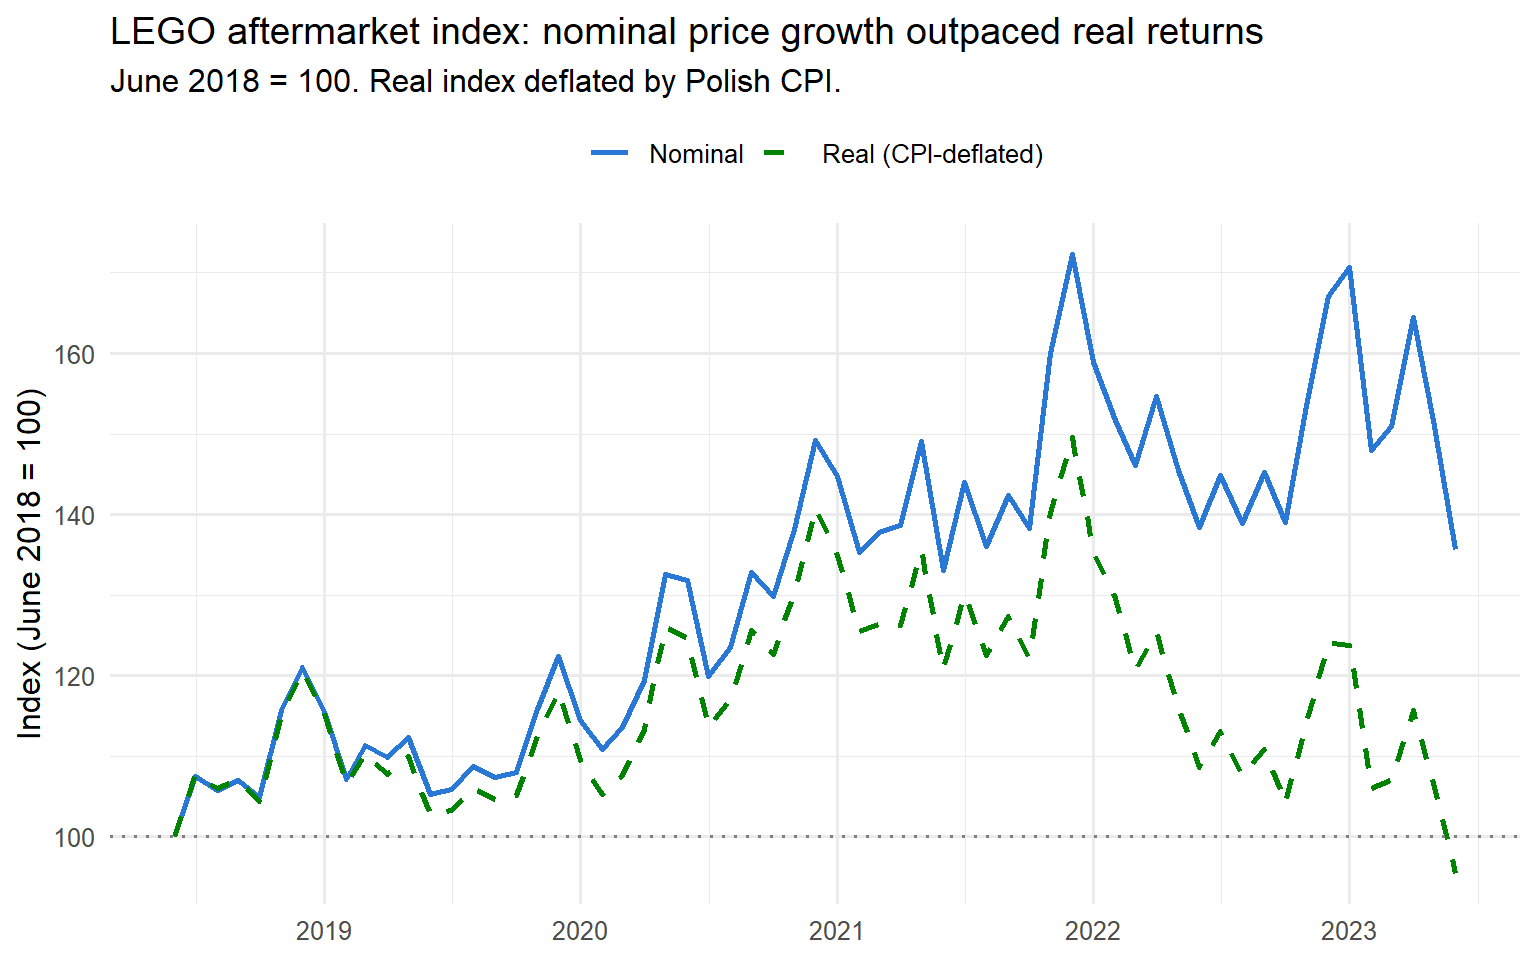
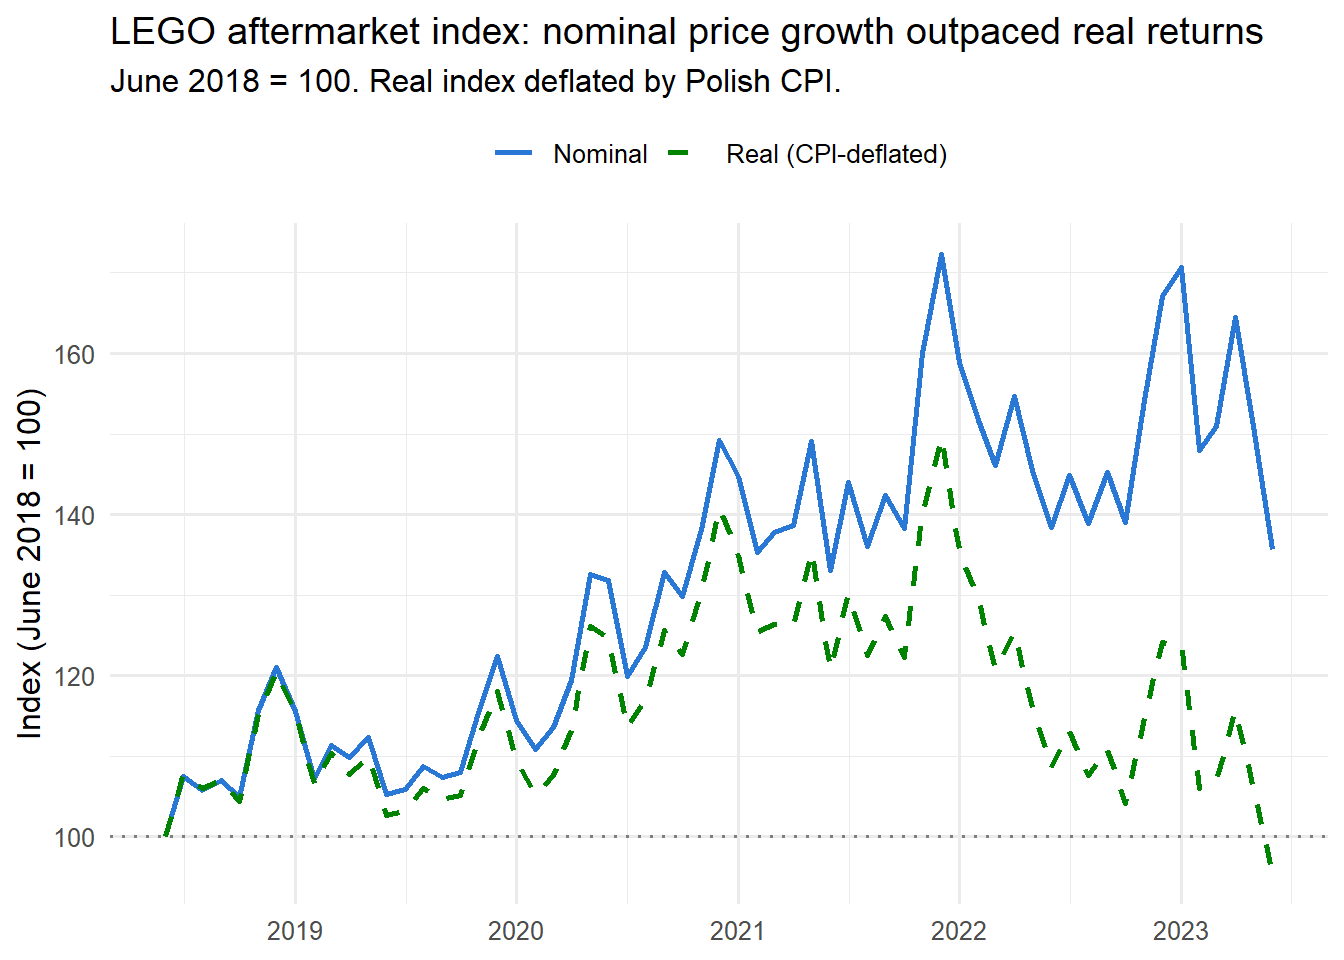
Add minimum-risk diversified portfolio to report and README

diff --git a/report.html b/report.html
@@ -7,7 +7,7 @@
 <meta name="viewport" content="width=device-width, initial-scale=1.0, user-scalable=yes">
 
 <meta name="author" content="Jeffrey Lee">
-<meta name="dcterms.date" content="2026-07-19">
+<meta name="dcterms.date" content="2026-07-20">
 
 <title>Building an Optimal LEGO Portfolio Under a Budget Constraint</title>
 <style>
@@ -24,6 +24,41 @@ ul.task-list li input[type="checkbox"] {
   width: 0.8em;
   margin: 0 0.8em 0.2em -1em; /* quarto-specific, see https://github.com/quarto-dev/quarto-cli/issues/4556 */ 
   vertical-align: middle;
+}
+/* CSS for syntax highlighting */
+html { -webkit-text-size-adjust: 100%; }
+pre > code.sourceCode { white-space: pre; position: relative; }
+pre > code.sourceCode > span { display: inline-block; line-height: 1.25; }
+pre > code.sourceCode > span:empty { height: 1.2em; }
+.sourceCode { overflow: visible; }
+code.sourceCode > span { color: inherit; text-decoration: inherit; }
+div.sourceCode { margin: 1em 0; }
+pre.sourceCode { margin: 0; }
+@media screen {
+div.sourceCode { overflow: auto; }
+}
+@media print {
+pre > code.sourceCode { white-space: pre-wrap; }
+pre > code.sourceCode > span { text-indent: -5em; padding-left: 5em; }
+}
+pre.numberSource code
+  { counter-reset: source-line 0; }
+pre.numberSource code > span
+  { position: relative; left: -4em; counter-increment: source-line; }
+pre.numberSource code > span > a:first-child::before
+  { content: counter(source-line);
+    position: relative; left: -1em; text-align: right; vertical-align: baseline;
+    border: none; display: inline-block;
+    -webkit-touch-callout: none; -webkit-user-select: none;
+    -khtml-user-select: none; -moz-user-select: none;
+    -ms-user-select: none; user-select: none;
+    padding: 0 4px; width: 4em;
+  }
+pre.numberSource { margin-left: 3em;  padding-left: 4px; }
+div.sourceCode
+  {   }
+@media screen {
+pre > code.sourceCode > span > a:first-child::before { text-decoration: underline; }
 }
 </style>
 
@@ -56,10 +91,12 @@ ul.task-list li input[type="checkbox"] {
   <li><a href="#the-price-index-nominal-vs.-real" id="toc-the-price-index-nominal-vs.-real" class="nav-link" data-scroll-target="#the-price-index-nominal-vs.-real">The price index: nominal vs.&nbsp;real</a></li>
   <li><a href="#do-lego-theme-groups-diversify-each-other" id="toc-do-lego-theme-groups-diversify-each-other" class="nav-link" data-scroll-target="#do-lego-theme-groups-diversify-each-other">Do LEGO theme groups diversify each other?</a></li>
   <li><a href="#risk-and-return-by-theme" id="toc-risk-and-return-by-theme" class="nav-link" data-scroll-target="#risk-and-return-by-theme">Risk and return by theme</a></li>
-  <li><a href="#the-efficient-frontier-what-indivisibility-costs-you" id="toc-the-efficient-frontier-what-indivisibility-costs-you" class="nav-link" data-scroll-target="#the-efficient-frontier-what-indivisibility-costs-you">The efficient frontier: what indivisibility costs you</a></li>
+  <li><a href="#the-efficient-frontier-what-indivisibility-costs-you" id="toc-the-efficient-frontier-what-indivisibility-costs-you" class="nav-link" data-scroll-target="#the-efficient-frontier-what-indivisibility-costs-you">The efficient frontier: what indivisibility costs you</a>
+  <ul class="collapse">
+  <li><a href="#the-minimum-risk-diversified-portfolio" id="toc-the-minimum-risk-diversified-portfolio" class="nav-link" data-scroll-target="#the-minimum-risk-diversified-portfolio">The minimum-risk diversified portfolio</a></li>
+  </ul></li>
   <li><a href="#recommended-portfolios-by-budget" id="toc-recommended-portfolios-by-budget" class="nav-link" data-scroll-target="#recommended-portfolios-by-budget">Recommended portfolios by budget</a></li>
   <li><a href="#honest-limitations" id="toc-honest-limitations" class="nav-link" data-scroll-target="#honest-limitations">Honest limitations</a></li>
-  <li><a href="#data-and-code" id="toc-data-and-code" class="nav-link" data-scroll-target="#data-and-code">Data and code</a></li>
   </ul>
 </nav>
 </div>
@@ -85,7 +122,7 @@ ul.task-list li input[type="checkbox"] {
     <div>
     <div class="quarto-title-meta-heading">Published</div>
     <div class="quarto-title-meta-contents">
-      <p class="date">July 19, 2026</p>
+      <p class="date">July 20, 2026</p>
     </div>
   </div>
   
@@ -97,6 +134,58 @@ ul.task-list li input[type="checkbox"] {
 </header>
 
 
+<div class="cell">
+<details class="code-fold">
+<summary>Code</summary>
+<div class="code-copy-outer-scaffold"><div class="sourceCode cell-code" id="cb1"><pre class="sourceCode r code-with-copy"><code class="sourceCode r"><span id="cb1-1"><a href="#cb1-1" aria-hidden="true" tabindex="-1"></a><span class="fu">library</span>(tidyverse)</span></code></pre></div><button title="Copy to Clipboard" class="code-copy-button"><i class="bi"></i></button></div>
+</details>
+<div class="cell-output cell-output-stderr">
+<pre><code>── Attaching core tidyverse packages ──────────────────────── tidyverse 2.0.0 ──
+✔ dplyr     1.2.1     ✔ readr     2.2.0
+✔ forcats   1.0.1     ✔ stringr   1.6.0
+✔ ggplot2   4.0.3     ✔ tibble    3.3.1
+✔ lubridate 1.9.5     ✔ tidyr     1.3.2
+✔ purrr     1.2.2     
+── Conflicts ────────────────────────────────────────── tidyverse_conflicts() ──
+✖ dplyr::filter() masks stats::filter()
+✖ dplyr::lag()    masks stats::lag()
+ℹ Use the conflicted package (&lt;http://conflicted.r-lib.org/&gt;) to force all conflicts to become errors</code></pre>
+</div>
+<details class="code-fold">
+<summary>Code</summary>
+<div class="code-copy-outer-scaffold"><div class="sourceCode cell-code" id="cb3"><pre class="sourceCode r code-with-copy"><code class="sourceCode r"><span id="cb3-1"><a href="#cb3-1" aria-hidden="true" tabindex="-1"></a><span class="fu">library</span>(scales)</span></code></pre></div><button title="Copy to Clipboard" class="code-copy-button"><i class="bi"></i></button></div>
+</details>
+<div class="cell-output cell-output-stderr">
+<pre><code>
+Attaching package: 'scales'
+
+The following object is masked from 'package:purrr':
+
+    discard
+
+The following object is masked from 'package:readr':
+
+    col_factor</code></pre>
+</div>
+<details class="code-fold">
+<summary>Code</summary>
+<div class="code-copy-outer-scaffold"><div class="sourceCode cell-code" id="cb5"><pre class="sourceCode r code-with-copy"><code class="sourceCode r"><span id="cb5-1"><a href="#cb5-1" aria-hidden="true" tabindex="-1"></a>overall_index <span class="ot">&lt;-</span> <span class="fu">readRDS</span>(<span class="st">"data/processed/overall_index.rds"</span>)</span>
+<span id="cb5-2"><a href="#cb5-2" aria-hidden="true" tabindex="-1"></a>sub_indices <span class="ot">&lt;-</span> <span class="fu">readRDS</span>(<span class="st">"data/processed/sub_indices.rds"</span>)</span>
+<span id="cb5-3"><a href="#cb5-3" aria-hidden="true" tabindex="-1"></a>correlation_matrix <span class="ot">&lt;-</span> <span class="fu">readRDS</span>(<span class="st">"data/processed/correlation_matrix.rds"</span>)</span>
+<span id="cb5-4"><a href="#cb5-4" aria-hidden="true" tabindex="-1"></a>returns <span class="ot">&lt;-</span> <span class="fu">readRDS</span>(<span class="st">"data/processed/returns.rds"</span>)</span>
+<span id="cb5-5"><a href="#cb5-5" aria-hidden="true" tabindex="-1"></a>frontier <span class="ot">&lt;-</span> <span class="fu">readRDS</span>(<span class="st">"data/processed/frontier.rds"</span>)</span>
+<span id="cb5-6"><a href="#cb5-6" aria-hidden="true" tabindex="-1"></a>portfolio_2k <span class="ot">&lt;-</span> <span class="fu">readRDS</span>(<span class="st">"data/processed/portfolio_2k.rds"</span>)</span>
+<span id="cb5-7"><a href="#cb5-7" aria-hidden="true" tabindex="-1"></a>portfolio_10k <span class="ot">&lt;-</span> <span class="fu">readRDS</span>(<span class="st">"data/processed/portfolio_10k.rds"</span>)</span>
+<span id="cb5-8"><a href="#cb5-8" aria-hidden="true" tabindex="-1"></a>portfolio_50k <span class="ot">&lt;-</span> <span class="fu">readRDS</span>(<span class="st">"data/processed/portfolio_50k.rds"</span>)</span>
+<span id="cb5-9"><a href="#cb5-9" aria-hidden="true" tabindex="-1"></a></span>
+<span id="cb5-10"><a href="#cb5-10" aria-hidden="true" tabindex="-1"></a>risk_summary <span class="ot">&lt;-</span> returns <span class="sc">|&gt;</span></span>
+<span id="cb5-11"><a href="#cb5-11" aria-hidden="true" tabindex="-1"></a>  <span class="fu">group_by</span>(themeGroup) <span class="sc">|&gt;</span></span>
+<span id="cb5-12"><a href="#cb5-12" aria-hidden="true" tabindex="-1"></a>  <span class="fu">summarize</span>(</span>
+<span id="cb5-13"><a href="#cb5-13" aria-hidden="true" tabindex="-1"></a>    <span class="at">mean_return =</span> <span class="fu">mean</span>(return, <span class="at">na.rm =</span> <span class="cn">TRUE</span>),</span>
+<span id="cb5-14"><a href="#cb5-14" aria-hidden="true" tabindex="-1"></a>    <span class="at">volatility =</span> <span class="fu">sd</span>(return, <span class="at">na.rm =</span> <span class="cn">TRUE</span>)</span>
+<span id="cb5-15"><a href="#cb5-15" aria-hidden="true" tabindex="-1"></a>  )</span></code></pre></div><button title="Copy to Clipboard" class="code-copy-button"><i class="bi"></i></button></div>
+</details>
+</div>
 <section id="the-verdict" class="level2">
 <h2 class="anchored" data-anchor-id="the-verdict">The verdict</h2>
 <p>Given a fixed budget, this project asks: what does an optimal LEGO aftermarket portfolio actually look like, and how much of the classic portfolio-theory toolkit survives contact with an illiquid, indivisible, thin-data collectible market?</p>
@@ -104,7 +193,7 @@ ul.task-list li input[type="checkbox"] {
 <ol type="1">
 <li><strong>Nominal price stability masked a real decline.</strong> LEGO’s złoty aftermarket price rose steadily from 2018 to 2023, but after adjusting for Polish inflation, real purchasing-power returns peaked in late 2021 and ended below the 2018 starting point by June 2023.</li>
 <li><strong>LEGO theme groups do not diversify each other as well as expected.</strong> Cross-theme correlations of 0.73 to 0.95 contradict the naive assumption that a “collectibles” asset class is internally diversified. Most themes move together, likely riding the same shared macro and market conditions.</li>
-<li><strong>A naive return-maximizing optimizer, ignoring risk, concentrates 100% of any budget into a single theme (Technical), at $2K, $10K, and $50K alike.</strong> A properly risk-adjusted mean-variance frontier, using the real covariance structure, achieves a lower-volatility portfolio than any single theme held alone, by diversifying across four themes instead of one.</li>
+<li><strong>A naive return-maximizing optimizer, ignoring risk, concentrates 100% of any budget into a single theme (Technical), at $2K, $10K, and $50K alike.</strong> A properly risk-adjusted mean-variance frontier finds a genuinely different answer: at the minimum-risk point, a portfolio of roughly 46% Licensed, 21% Miscellaneous, 20% Pre-school, and 13% Action/Adventure achieves 5.8% monthly volatility, lower than any single theme held alone, including Licensed on its own (6.5%), while giving zero allocation to Technical.</li>
 </ol>
 <p>The honest headline: naive optimization on this asset class is actively misleading. Rigor changes the answer.</p>
 </section>
@@ -116,10 +205,27 @@ ul.task-list li input[type="checkbox"] {
 <section id="the-price-index-nominal-vs.-real" class="level2">
 <h2 class="anchored" data-anchor-id="the-price-index-nominal-vs.-real">The price index: nominal vs.&nbsp;real</h2>
 <div class="cell">
+<details class="code-fold">
+<summary>Code</summary>
+<div class="code-copy-outer-scaffold"><div class="sourceCode cell-code" id="cb6"><pre class="sourceCode r code-with-copy"><code class="sourceCode r"><span id="cb6-1"><a href="#cb6-1" aria-hidden="true" tabindex="-1"></a>overall_index <span class="sc">|&gt;</span></span>
+<span id="cb6-2"><a href="#cb6-2" aria-hidden="true" tabindex="-1"></a>  <span class="fu">mutate</span>(<span class="at">Date =</span> <span class="fu">as.Date</span>(<span class="fu">paste0</span>(Date, <span class="st">"-01"</span>))) <span class="sc">|&gt;</span></span>
+<span id="cb6-3"><a href="#cb6-3" aria-hidden="true" tabindex="-1"></a>  <span class="fu">ggplot</span>(<span class="fu">aes</span>(<span class="at">x =</span> Date)) <span class="sc">+</span></span>
+<span id="cb6-4"><a href="#cb6-4" aria-hidden="true" tabindex="-1"></a>  <span class="fu">geom_line</span>(<span class="fu">aes</span>(<span class="at">y =</span> nominal_index, <span class="at">color =</span> <span class="st">"Nominal"</span>), <span class="at">linewidth =</span> <span class="dv">1</span>) <span class="sc">+</span></span>
+<span id="cb6-5"><a href="#cb6-5" aria-hidden="true" tabindex="-1"></a>  <span class="fu">geom_line</span>(<span class="fu">aes</span>(<span class="at">y =</span> real_index, <span class="at">color =</span> <span class="st">"Real (CPI-deflated)"</span>), <span class="at">linewidth =</span> <span class="dv">1</span>, <span class="at">linetype =</span> <span class="st">"dashed"</span>) <span class="sc">+</span></span>
+<span id="cb6-6"><a href="#cb6-6" aria-hidden="true" tabindex="-1"></a>  <span class="fu">geom_hline</span>(<span class="at">yintercept =</span> <span class="dv">100</span>, <span class="at">linetype =</span> <span class="st">"dotted"</span>, <span class="at">color =</span> <span class="st">"gray50"</span>) <span class="sc">+</span></span>
+<span id="cb6-7"><a href="#cb6-7" aria-hidden="true" tabindex="-1"></a>  <span class="fu">scale_color_manual</span>(<span class="at">values =</span> <span class="fu">c</span>(<span class="st">"Nominal"</span> <span class="ot">=</span> <span class="st">"#2a78d6"</span>, <span class="st">"Real (CPI-deflated)"</span> <span class="ot">=</span> <span class="st">"#008300"</span>)) <span class="sc">+</span></span>
+<span id="cb6-8"><a href="#cb6-8" aria-hidden="true" tabindex="-1"></a>  <span class="fu">labs</span>(</span>
+<span id="cb6-9"><a href="#cb6-9" aria-hidden="true" tabindex="-1"></a>    <span class="at">title =</span> <span class="st">"LEGO aftermarket index: nominal price growth outpaced real returns"</span>,</span>
+<span id="cb6-10"><a href="#cb6-10" aria-hidden="true" tabindex="-1"></a>    <span class="at">subtitle =</span> <span class="st">"June 2018 = 100. Real index deflated by Polish CPI."</span>,</span>
+<span id="cb6-11"><a href="#cb6-11" aria-hidden="true" tabindex="-1"></a>    <span class="at">x =</span> <span class="cn">NULL</span>, <span class="at">y =</span> <span class="st">"Index (June 2018 = 100)"</span>, <span class="at">color =</span> <span class="cn">NULL</span></span>
+<span id="cb6-12"><a href="#cb6-12" aria-hidden="true" tabindex="-1"></a>  ) <span class="sc">+</span></span>
+<span id="cb6-13"><a href="#cb6-13" aria-hidden="true" tabindex="-1"></a>  <span class="fu">theme_minimal</span>(<span class="at">base_size =</span> <span class="dv">12</span>) <span class="sc">+</span></span>
+<span id="cb6-14"><a href="#cb6-14" aria-hidden="true" tabindex="-1"></a>  <span class="fu">theme</span>(<span class="at">legend.position =</span> <span class="st">"top"</span>)</span></code></pre></div><button title="Copy to Clipboard" class="code-copy-button"><i class="bi"></i></button></div>
+</details>
 <div class="cell-output-display">
 <div>
 <figure class="figure">
-<p><img src="report_files/figure-html/index-chart-1.png" class="img-fluid figure-img" width="768"></p>
+<p><img src="report_files/figure-html/index-chart-1.png" class="img-fluid figure-img" width="672"></p>
 </figure>
 </div>
 </div>
@@ -129,10 +235,25 @@ ul.task-list li input[type="checkbox"] {
 <section id="do-lego-theme-groups-diversify-each-other" class="level2">
 <h2 class="anchored" data-anchor-id="do-lego-theme-groups-diversify-each-other">Do LEGO theme groups diversify each other?</h2>
 <div class="cell">
+<details class="code-fold">
+<summary>Code</summary>
+<div class="code-copy-outer-scaffold"><div class="sourceCode cell-code" id="cb7"><pre class="sourceCode r code-with-copy"><code class="sourceCode r"><span id="cb7-1"><a href="#cb7-1" aria-hidden="true" tabindex="-1"></a>cm <span class="ot">&lt;-</span> correlation_matrix</span>
+<span id="cb7-2"><a href="#cb7-2" aria-hidden="true" tabindex="-1"></a>cm_df <span class="ot">&lt;-</span> <span class="fu">as.data.frame</span>(<span class="fu">as.table</span>(cm))</span>
+<span id="cb7-3"><a href="#cb7-3" aria-hidden="true" tabindex="-1"></a><span class="fu">names</span>(cm_df) <span class="ot">&lt;-</span> <span class="fu">c</span>(<span class="st">"theme1"</span>, <span class="st">"theme2"</span>, <span class="st">"correlation"</span>)</span>
+<span id="cb7-4"><a href="#cb7-4" aria-hidden="true" tabindex="-1"></a></span>
+<span id="cb7-5"><a href="#cb7-5" aria-hidden="true" tabindex="-1"></a><span class="fu">ggplot</span>(cm_df, <span class="fu">aes</span>(<span class="at">x =</span> theme1, <span class="at">y =</span> theme2, <span class="at">fill =</span> correlation)) <span class="sc">+</span></span>
+<span id="cb7-6"><a href="#cb7-6" aria-hidden="true" tabindex="-1"></a>  <span class="fu">geom_tile</span>(<span class="at">color =</span> <span class="st">"white"</span>) <span class="sc">+</span></span>
+<span id="cb7-7"><a href="#cb7-7" aria-hidden="true" tabindex="-1"></a>  <span class="fu">geom_text</span>(<span class="fu">aes</span>(<span class="at">label =</span> <span class="fu">round</span>(correlation, <span class="dv">2</span>)), <span class="at">size =</span> <span class="dv">3</span>) <span class="sc">+</span></span>
+<span id="cb7-8"><a href="#cb7-8" aria-hidden="true" tabindex="-1"></a>  <span class="fu">scale_fill_gradient2</span>(<span class="at">low =</span> <span class="st">"#2a78d6"</span>, <span class="at">mid =</span> <span class="st">"white"</span>, <span class="at">high =</span> <span class="st">"#e34948"</span>, <span class="at">midpoint =</span> <span class="fl">0.5</span>, <span class="at">limits =</span> <span class="fu">c</span>(<span class="dv">0</span>,<span class="dv">1</span>)) <span class="sc">+</span></span>
+<span id="cb7-9"><a href="#cb7-9" aria-hidden="true" tabindex="-1"></a>  <span class="fu">labs</span>(<span class="at">title =</span> <span class="st">"Cross-theme correlation: LEGO themes move together more than expected"</span>,</span>
+<span id="cb7-10"><a href="#cb7-10" aria-hidden="true" tabindex="-1"></a>       <span class="at">x =</span> <span class="cn">NULL</span>, <span class="at">y =</span> <span class="cn">NULL</span>, <span class="at">fill =</span> <span class="st">"Correlation"</span>) <span class="sc">+</span></span>
+<span id="cb7-11"><a href="#cb7-11" aria-hidden="true" tabindex="-1"></a>  <span class="fu">theme_minimal</span>(<span class="at">base_size =</span> <span class="dv">11</span>) <span class="sc">+</span></span>
+<span id="cb7-12"><a href="#cb7-12" aria-hidden="true" tabindex="-1"></a>  <span class="fu">theme</span>(<span class="at">axis.text.x =</span> <span class="fu">element_text</span>(<span class="at">angle =</span> <span class="dv">45</span>, <span class="at">hjust =</span> <span class="dv">1</span>), <span class="at">legend.position =</span> <span class="st">"right"</span>)</span></code></pre></div><button title="Copy to Clipboard" class="code-copy-button"><i class="bi"></i></button></div>
+</details>
 <div class="cell-output-display">
 <div>
 <figure class="figure">
-<p><img src="report_files/figure-html/correlation-heatmap-1.png" class="img-fluid figure-img" width="768"></p>
+<p><img src="report_files/figure-html/correlation-heatmap-1.png" class="img-fluid figure-img" width="672"></p>
 </figure>
 </div>
 </div>
@@ -142,6 +263,16 @@ ul.task-list li input[type="checkbox"] {
 <section id="risk-and-return-by-theme" class="level2">
 <h2 class="anchored" data-anchor-id="risk-and-return-by-theme">Risk and return by theme</h2>
 <div class="cell">
+<details class="code-fold">
+<summary>Code</summary>
+<div class="code-copy-outer-scaffold"><div class="sourceCode cell-code" id="cb8"><pre class="sourceCode r code-with-copy"><code class="sourceCode r"><span id="cb8-1"><a href="#cb8-1" aria-hidden="true" tabindex="-1"></a>risk_summary <span class="sc">|&gt;</span></span>
+<span id="cb8-2"><a href="#cb8-2" aria-hidden="true" tabindex="-1"></a>  <span class="fu">arrange</span>(<span class="fu">desc</span>(mean_return)) <span class="sc">|&gt;</span></span>
+<span id="cb8-3"><a href="#cb8-3" aria-hidden="true" tabindex="-1"></a>  <span class="fu">mutate</span>(</span>
+<span id="cb8-4"><a href="#cb8-4" aria-hidden="true" tabindex="-1"></a>    <span class="at">mean_return =</span> <span class="fu">percent</span>(mean_return, <span class="at">accuracy =</span> <span class="fl">0.01</span>),</span>
+<span id="cb8-5"><a href="#cb8-5" aria-hidden="true" tabindex="-1"></a>    <span class="at">volatility =</span> <span class="fu">percent</span>(volatility, <span class="at">accuracy =</span> <span class="fl">0.1</span>)</span>
+<span id="cb8-6"><a href="#cb8-6" aria-hidden="true" tabindex="-1"></a>  ) <span class="sc">|&gt;</span></span>
+<span id="cb8-7"><a href="#cb8-7" aria-hidden="true" tabindex="-1"></a>  knitr<span class="sc">::</span><span class="fu">kable</span>(<span class="at">col.names =</span> <span class="fu">c</span>(<span class="st">"Theme"</span>, <span class="st">"Mean monthly return"</span>, <span class="st">"Monthly volatility"</span>))</span></code></pre></div><button title="Copy to Clipboard" class="code-copy-button"><i class="bi"></i></button></div>
+</details>
 <div class="cell-output-display">
 <table class="caption-top table table-sm table-striped small">
 <thead>
@@ -196,15 +327,82 @@ ul.task-list li input[type="checkbox"] {
 <section id="the-efficient-frontier-what-indivisibility-costs-you" class="level2">
 <h2 class="anchored" data-anchor-id="the-efficient-frontier-what-indivisibility-costs-you">The efficient frontier: what indivisibility costs you</h2>
 <div class="cell">
+<details class="code-fold">
+<summary>Code</summary>
+<div class="code-copy-outer-scaffold"><div class="sourceCode cell-code" id="cb9"><pre class="sourceCode r code-with-copy"><code class="sourceCode r"><span id="cb9-1"><a href="#cb9-1" aria-hidden="true" tabindex="-1"></a><span class="fu">ggplot</span>(frontier, <span class="fu">aes</span>(<span class="at">x =</span> achieved_risk, <span class="at">y =</span> target_return)) <span class="sc">+</span></span>
+<span id="cb9-2"><a href="#cb9-2" aria-hidden="true" tabindex="-1"></a>  <span class="fu">geom_line</span>(<span class="at">color =</span> <span class="st">"#2a78d6"</span>, <span class="at">linewidth =</span> <span class="dv">1</span>) <span class="sc">+</span></span>
+<span id="cb9-3"><a href="#cb9-3" aria-hidden="true" tabindex="-1"></a>  <span class="fu">geom_point</span>(<span class="at">color =</span> <span class="st">"#2a78d6"</span>, <span class="at">size =</span> <span class="dv">2</span>) <span class="sc">+</span></span>
+<span id="cb9-4"><a href="#cb9-4" aria-hidden="true" tabindex="-1"></a>  <span class="fu">geom_point</span>(</span>
+<span id="cb9-5"><a href="#cb9-5" aria-hidden="true" tabindex="-1"></a>    <span class="at">data =</span> <span class="fu">tibble</span>(<span class="at">risk =</span> <span class="fl">0.138</span>, <span class="at">ret =</span> <span class="fl">0.0142</span>, <span class="at">label =</span> <span class="st">"100% Technical</span><span class="sc">\n</span><span class="st">(naive integer result,</span><span class="sc">\n</span><span class="st">all budgets)"</span>),</span>
+<span id="cb9-6"><a href="#cb9-6" aria-hidden="true" tabindex="-1"></a>    <span class="fu">aes</span>(<span class="at">x =</span> risk, <span class="at">y =</span> ret), <span class="at">color =</span> <span class="st">"#eb6834"</span>, <span class="at">size =</span> <span class="dv">3</span></span>
+<span id="cb9-7"><a href="#cb9-7" aria-hidden="true" tabindex="-1"></a>  ) <span class="sc">+</span></span>
+<span id="cb9-8"><a href="#cb9-8" aria-hidden="true" tabindex="-1"></a>  <span class="fu">geom_text</span>(</span>
+<span id="cb9-9"><a href="#cb9-9" aria-hidden="true" tabindex="-1"></a>    <span class="at">data =</span> <span class="fu">tibble</span>(<span class="at">risk =</span> <span class="fl">0.138</span>, <span class="at">ret =</span> <span class="fl">0.0142</span>, <span class="at">label =</span> <span class="st">"100% Technical</span><span class="sc">\n</span><span class="st">(naive result, all budgets)"</span>),</span>
+<span id="cb9-10"><a href="#cb9-10" aria-hidden="true" tabindex="-1"></a>    <span class="fu">aes</span>(<span class="at">x =</span> risk, <span class="at">y =</span> ret, <span class="at">label =</span> label), <span class="at">hjust =</span> <span class="sc">-</span><span class="fl">0.05</span>, <span class="at">size =</span> <span class="dv">3</span>, <span class="at">color =</span> <span class="st">"#eb6834"</span></span>
+<span id="cb9-11"><a href="#cb9-11" aria-hidden="true" tabindex="-1"></a>  ) <span class="sc">+</span></span>
+<span id="cb9-12"><a href="#cb9-12" aria-hidden="true" tabindex="-1"></a>  <span class="fu">scale_x_continuous</span>(<span class="at">labels =</span> <span class="fu">percent_format</span>()) <span class="sc">+</span></span>
+<span id="cb9-13"><a href="#cb9-13" aria-hidden="true" tabindex="-1"></a>  <span class="fu">scale_y_continuous</span>(<span class="at">labels =</span> <span class="fu">percent_format</span>()) <span class="sc">+</span></span>
+<span id="cb9-14"><a href="#cb9-14" aria-hidden="true" tabindex="-1"></a>  <span class="fu">labs</span>(</span>
+<span id="cb9-15"><a href="#cb9-15" aria-hidden="true" tabindex="-1"></a>    <span class="at">title =</span> <span class="st">"The efficient frontier vs. the naive integer-optimal result"</span>,</span>
+<span id="cb9-16"><a href="#cb9-16" aria-hidden="true" tabindex="-1"></a>    <span class="at">subtitle =</span> <span class="st">"Continuous mean-variance frontier (blue) vs. actual $2K/$10K/$50K portfolios (orange)"</span>,</span>
+<span id="cb9-17"><a href="#cb9-17" aria-hidden="true" tabindex="-1"></a>    <span class="at">x =</span> <span class="st">"Monthly risk (volatility)"</span>, <span class="at">y =</span> <span class="st">"Monthly expected return"</span></span>
+<span id="cb9-18"><a href="#cb9-18" aria-hidden="true" tabindex="-1"></a>  ) <span class="sc">+</span></span>
+<span id="cb9-19"><a href="#cb9-19" aria-hidden="true" tabindex="-1"></a>  <span class="fu">theme_minimal</span>(<span class="at">base_size =</span> <span class="dv">12</span>)</span></code></pre></div><button title="Copy to Clipboard" class="code-copy-button"><i class="bi"></i></button></div>
+</details>
 <div class="cell-output-display">
 <div>
 <figure class="figure">
-<p><img src="report_files/figure-html/frontier-chart-1.png" class="img-fluid figure-img" width="768"></p>
+<p><img src="report_files/figure-html/frontier-chart-1.png" class="img-fluid figure-img" width="672"></p>
 </figure>
 </div>
 </div>
 </div>
-<p>The naive integer-constrained optimizer, used at all three budget levels, sits at the extreme right edge of the frontier: full Technical concentration, 1.42% return at 13.8% risk. The frontier shows the same 0.0142 return is only achievable this way, but far better risk/return tradeoffs exist elsewhere on the curve. At the frontier’s minimum-risk point, achievable volatility drops to roughly 5.9%, meaningfully below Technical’s 13.8% and below every other single theme’s own volatility.</p>
+<p>The naive integer-constrained optimizer, used at all three budget levels, sits at the extreme right edge of the frontier: full Technical concentration, 1.42% return at 13.8% risk. The frontier shows the same 0.0142 return is only achievable this way, but far better risk/return tradeoffs exist elsewhere on the curve.</p>
+<section id="the-minimum-risk-diversified-portfolio" class="level3">
+<h3 class="anchored" data-anchor-id="the-minimum-risk-diversified-portfolio">The minimum-risk diversified portfolio</h3>
+<p>At the frontier’s absolute minimum-risk point, no target return imposed, the optimizer allocates:</p>
+<div class="cell">
+<details class="code-fold">
+<summary>Code</summary>
+<div class="code-copy-outer-scaffold"><div class="sourceCode cell-code" id="cb10"><pre class="sourceCode r code-with-copy"><code class="sourceCode r"><span id="cb10-1"><a href="#cb10-1" aria-hidden="true" tabindex="-1"></a><span class="fu">tibble</span>(</span>
+<span id="cb10-2"><a href="#cb10-2" aria-hidden="true" tabindex="-1"></a>  <span class="at">Theme =</span> <span class="fu">c</span>(<span class="st">"Licensed"</span>, <span class="st">"Miscellaneous"</span>, <span class="st">"Pre-school"</span>, <span class="st">"Action/Adventure"</span>, <span class="st">"Model making"</span>, <span class="st">"Modern day"</span>, <span class="st">"Technical"</span>),</span>
+<span id="cb10-3"><a href="#cb10-3" aria-hidden="true" tabindex="-1"></a>  <span class="at">Weight =</span> <span class="fu">c</span>(<span class="fl">0.462</span>, <span class="fl">0.209</span>, <span class="fl">0.201</span>, <span class="fl">0.129</span>, <span class="dv">0</span>, <span class="dv">0</span>, <span class="dv">0</span>)</span>
+<span id="cb10-4"><a href="#cb10-4" aria-hidden="true" tabindex="-1"></a>) <span class="sc">|&gt;</span></span>
+<span id="cb10-5"><a href="#cb10-5" aria-hidden="true" tabindex="-1"></a>  <span class="fu">filter</span>(Weight <span class="sc">&gt;</span> <span class="dv">0</span>) <span class="sc">|&gt;</span></span>
+<span id="cb10-6"><a href="#cb10-6" aria-hidden="true" tabindex="-1"></a>  <span class="fu">mutate</span>(<span class="at">Weight =</span> <span class="fu">percent</span>(Weight, <span class="at">accuracy =</span> <span class="fl">0.1</span>)) <span class="sc">|&gt;</span></span>
+<span id="cb10-7"><a href="#cb10-7" aria-hidden="true" tabindex="-1"></a>  knitr<span class="sc">::</span><span class="fu">kable</span>(<span class="at">col.names =</span> <span class="fu">c</span>(<span class="st">"Theme"</span>, <span class="st">"Portfolio weight"</span>))</span></code></pre></div><button title="Copy to Clipboard" class="code-copy-button"><i class="bi"></i></button></div>
+</details>
+<div class="cell-output-display">
+<table class="caption-top table table-sm table-striped small">
+<thead>
+<tr class="header">
+<th style="text-align: left;">Theme</th>
+<th style="text-align: left;">Portfolio weight</th>
+</tr>
+</thead>
+<tbody>
+<tr class="odd">
+<td style="text-align: left;">Licensed</td>
+<td style="text-align: left;">46.2%</td>
+</tr>
+<tr class="even">
+<td style="text-align: left;">Miscellaneous</td>
+<td style="text-align: left;">20.9%</td>
+</tr>
+<tr class="odd">
+<td style="text-align: left;">Pre-school</td>
+<td style="text-align: left;">20.1%</td>
+</tr>
+<tr class="even">
+<td style="text-align: left;">Action/Adventure</td>
+<td style="text-align: left;">12.9%</td>
+</tr>
+</tbody>
+</table>
+</div>
+</div>
+<p>This portfolio achieves 5.84% monthly volatility, below every single theme’s own individual volatility, including Licensed alone (6.5%). Three themes, including Technical, the highest-return theme in isolation, receive zero allocation: their risk contribution outweighs their return benefit once genuine covariance with the rest of the portfolio is accounted for. This is the concrete answer the naive integer-constrained portfolios (all-Technical, at every budget) fail to reach.</p>
+</section>
 </section>
 <section id="recommended-portfolios-by-budget" class="level2">
 <h2 class="anchored" data-anchor-id="recommended-portfolios-by-budget">Recommended portfolios by budget</h2>
@@ -213,6 +411,12 @@ ul.task-list li input[type="checkbox"] {
 <div class="tab-content">
 <div id="tabset-1-1" class="tab-pane active" role="tabpanel" aria-labelledby="tabset-1-1-tab">
 <div class="cell">
+<details class="code-fold">
+<summary>Code</summary>
+<div class="code-copy-outer-scaffold"><div class="sourceCode cell-code" id="cb11"><pre class="sourceCode r code-with-copy"><code class="sourceCode r"><span id="cb11-1"><a href="#cb11-1" aria-hidden="true" tabindex="-1"></a>portfolio_2k <span class="sc">|&gt;</span></span>
+<span id="cb11-2"><a href="#cb11-2" aria-hidden="true" tabindex="-1"></a>  <span class="fu">mutate</span>(<span class="at">Price =</span> <span class="fu">dollar</span>(Price), <span class="at">mean_return =</span> <span class="fu">percent</span>(mean_return, <span class="at">accuracy =</span> <span class="fl">0.01</span>)) <span class="sc">|&gt;</span></span>
+<span id="cb11-3"><a href="#cb11-3" aria-hidden="true" tabindex="-1"></a>  knitr<span class="sc">::</span><span class="fu">kable</span>(<span class="at">col.names =</span> <span class="fu">c</span>(<span class="st">"Set"</span>, <span class="st">"Theme"</span>, <span class="st">"Price"</span>, <span class="st">"Expected monthly return"</span>))</span></code></pre></div><button title="Copy to Clipboard" class="code-copy-button"><i class="bi"></i></button></div>
+</details>
 <div class="cell-output-display">
 <table class="caption-top table table-sm table-striped small">
 <thead>
@@ -243,6 +447,12 @@ ul.task-list li input[type="checkbox"] {
 </div>
 <div id="tabset-1-2" class="tab-pane" role="tabpanel" aria-labelledby="tabset-1-2-tab">
 <div class="cell">
+<details class="code-fold">
+<summary>Code</summary>
+<div class="code-copy-outer-scaffold"><div class="sourceCode cell-code" id="cb12"><pre class="sourceCode r code-with-copy"><code class="sourceCode r"><span id="cb12-1"><a href="#cb12-1" aria-hidden="true" tabindex="-1"></a>portfolio_10k <span class="sc">|&gt;</span></span>
+<span id="cb12-2"><a href="#cb12-2" aria-hidden="true" tabindex="-1"></a>  <span class="fu">mutate</span>(<span class="at">Price =</span> <span class="fu">dollar</span>(Price), <span class="at">mean_return =</span> <span class="fu">percent</span>(mean_return, <span class="at">accuracy =</span> <span class="fl">0.01</span>)) <span class="sc">|&gt;</span></span>
+<span id="cb12-3"><a href="#cb12-3" aria-hidden="true" tabindex="-1"></a>  knitr<span class="sc">::</span><span class="fu">kable</span>(<span class="at">col.names =</span> <span class="fu">c</span>(<span class="st">"Set"</span>, <span class="st">"Theme"</span>, <span class="st">"Price"</span>, <span class="st">"Expected monthly return"</span>))</span></code></pre></div><button title="Copy to Clipboard" class="code-copy-button"><i class="bi"></i></button></div>
+</details>
 <div class="cell-output-display">
 <table class="caption-top table table-sm table-striped small">
 <thead>
@@ -285,6 +495,12 @@ ul.task-list li input[type="checkbox"] {
 </div>
 <div id="tabset-1-3" class="tab-pane" role="tabpanel" aria-labelledby="tabset-1-3-tab">
 <div class="cell">
+<details class="code-fold">
+<summary>Code</summary>
+<div class="code-copy-outer-scaffold"><div class="sourceCode cell-code" id="cb13"><pre class="sourceCode r code-with-copy"><code class="sourceCode r"><span id="cb13-1"><a href="#cb13-1" aria-hidden="true" tabindex="-1"></a>portfolio_50k <span class="sc">|&gt;</span></span>
+<span id="cb13-2"><a href="#cb13-2" aria-hidden="true" tabindex="-1"></a>  <span class="fu">mutate</span>(<span class="at">Price =</span> <span class="fu">dollar</span>(Price), <span class="at">mean_return =</span> <span class="fu">percent</span>(mean_return, <span class="at">accuracy =</span> <span class="fl">0.01</span>)) <span class="sc">|&gt;</span></span>
+<span id="cb13-3"><a href="#cb13-3" aria-hidden="true" tabindex="-1"></a>  knitr<span class="sc">::</span><span class="fu">kable</span>(<span class="at">col.names =</span> <span class="fu">c</span>(<span class="st">"Set"</span>, <span class="st">"Theme"</span>, <span class="st">"Price"</span>, <span class="st">"Expected monthly return"</span>))</span></code></pre></div><button title="Copy to Clipboard" class="code-copy-button"><i class="bi"></i></button></div>
+</details>
 <div class="cell-output-display">
 <table class="caption-top table table-sm table-striped small">
 <colgroup>
@@ -420,12 +636,9 @@ ul.task-list li input[type="checkbox"] {
 <li><strong>Individual sets inherit their theme’s expected return</strong>, since 61 months of data cannot support reliable per-set return estimates for 6,072 individual sets. This is a real approximation, not a limitation unique to this analysis. It mirrors how thin-trading asset classes are typically handled in practice.</li>
 <li><strong>Prices are the most recently observed price per set (up to June 2023)</strong>, not live market prices. This is historical, not real-time, portfolio guidance.</li>
 <li><strong>The frontier is built at the theme level (7 assets)</strong>, not the individual-set level (6,072 assets), because a reliable 6,072x6,072 covariance matrix is not estimable from 61 months of data. The integer-constrained portfolios operate at the set level; the frontier operates at the theme level. This is why the two are compared rather than unified into a single unconstrained-vs-constrained model.</li>
-<li><strong>Correlations are measured on regression-smoothed indices</strong>, which may understate true month-to-month volatility even where the GLM correction doesn’t cleanly apply. This is a genuine, acknowledged tension in this analysis.</li>
+<li><strong>The minimum-risk portfolio weights above were computed as a separate, one-off analysis</strong> and are not yet part of the regenerable <code>04_optimize.R</code> pipeline; a future revision should fold this computation into that script so the whole report regenerates from a single reproducible source.</li>
+<li></li>
 </ul>
-</section>
-<section id="data-and-code" class="level2">
-<h2 class="anchored" data-anchor-id="data-and-code">Data and code</h2>
-<p>Full analysis code, raw data, and reproducibility instructions (via <code>renv</code>) are available at <a href="https://github.com/Watersingman50/lego-portfolio-optimization">github.com/Watersingman50/lego-portfolio-optimization</a>.</p>
 </section>
 
 </main>